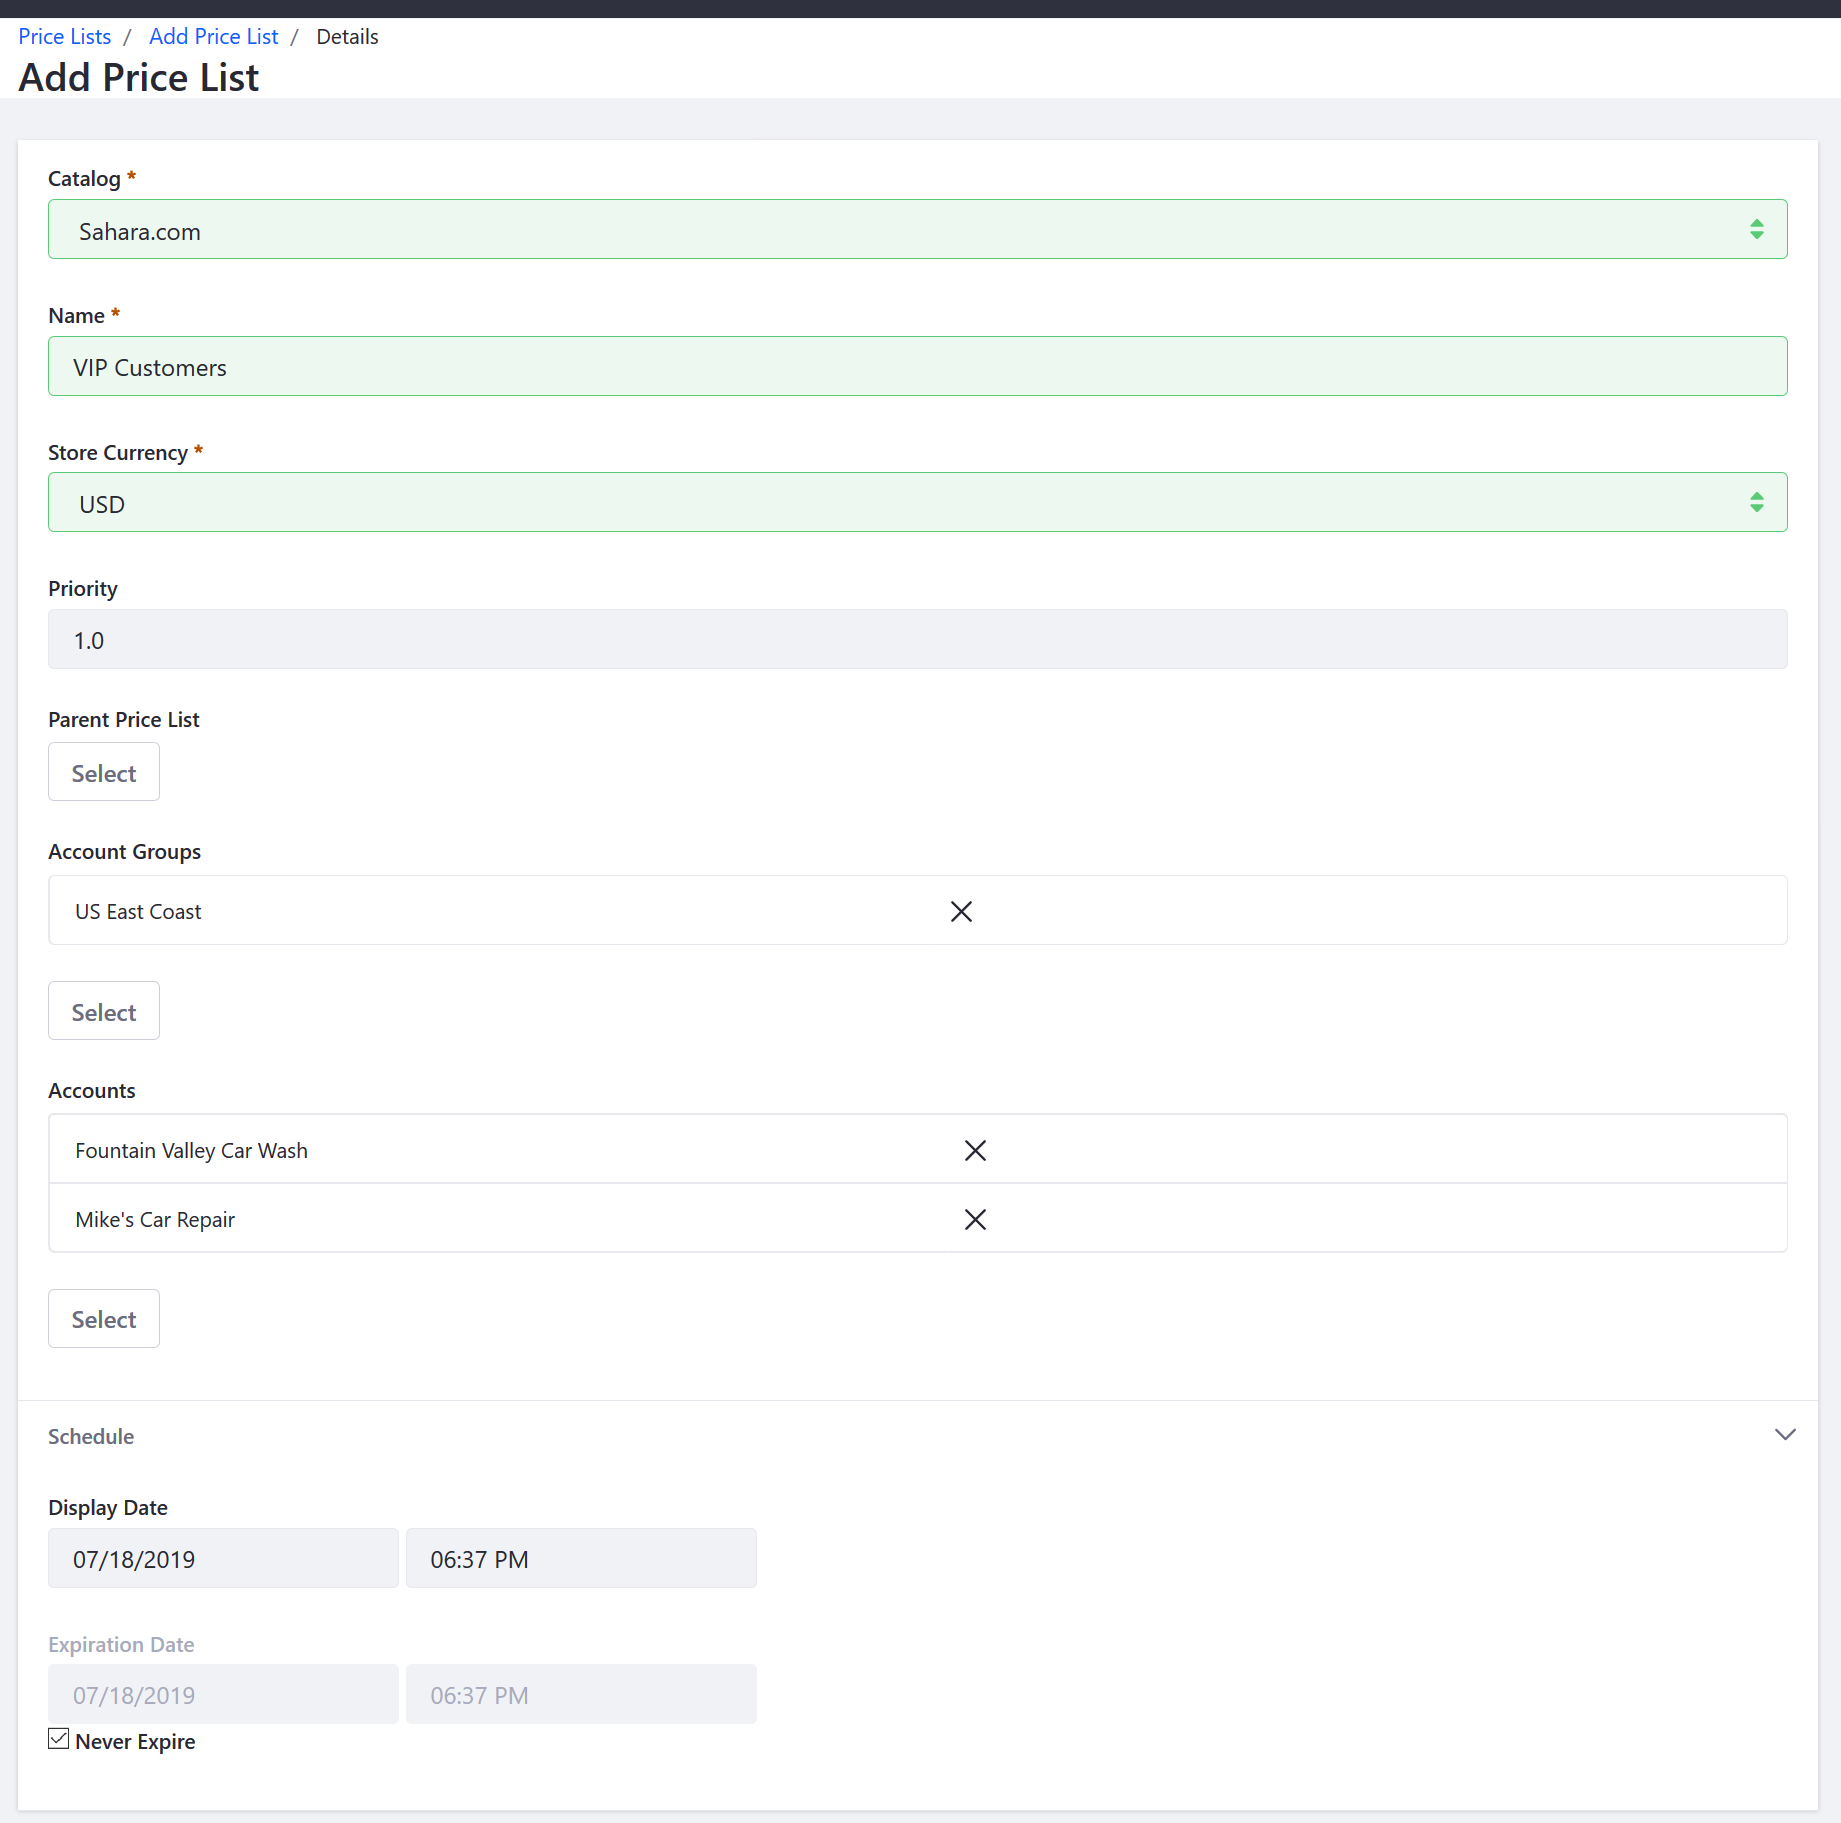
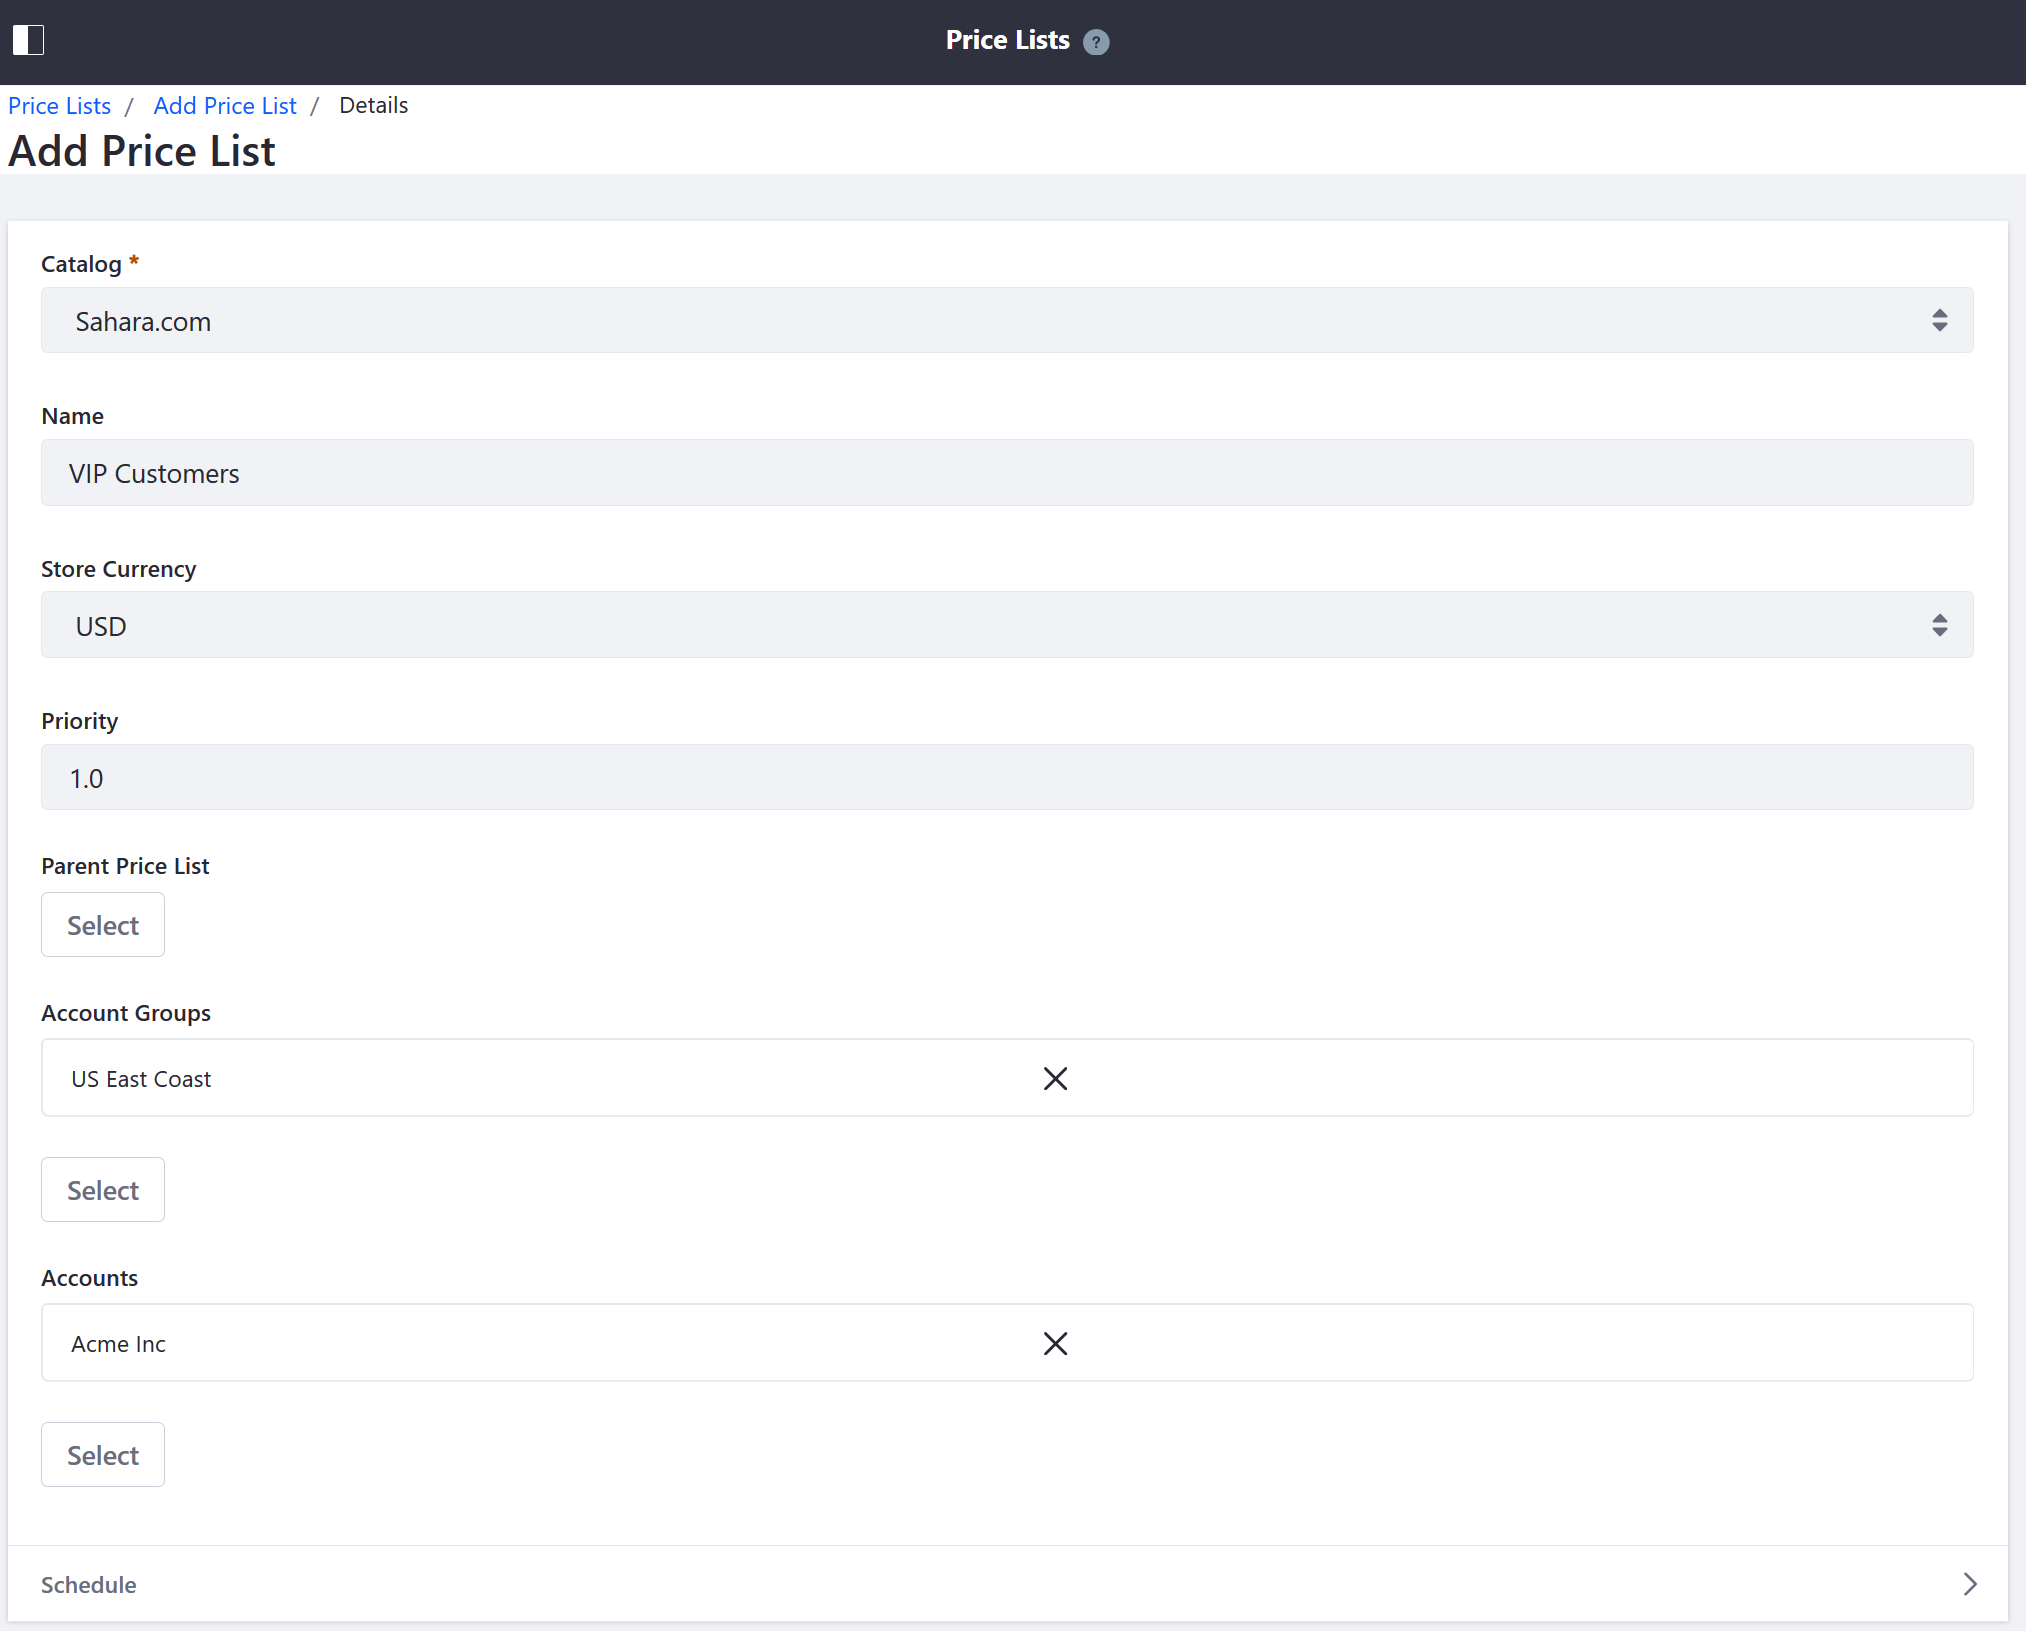
Updating images for Products and Promos

diff --git a/docs/commerce/2.x/en/promoting-products/automating-store-emails-by-using-notification-templates.md b/docs/commerce/2.x/en/promoting-products/automating-store-emails-by-using-notification-templates.md
@@ -6,11 +6,54 @@ Notifications are automated emails sent to users. To send email notifications, f
 
 Once the Mail settings have been configured, follow these steps to create a notification for a received order:
 
+1. Navigate to the _Control Panel_ &rarr; _Commerce_ &rarr; _Channels_.
+1. Click on the desired channel (for example, _Sahara.com_). (Note that if you had used an accelerator like Minium or Speedwell, the associated channel is created automatically.)
+1. Click the _Notifications_ tab.
+1. Click the _Notification Templates_ sub-tab.
+1. Click the Add (![Add icon](../images/icon-add.png)) button to create a new Notification Template.
+1. Enter the following:
+    * **Name**: New Orders
+    * **Description**: New orders template
+    * **Type**: Order Placed
+    * **Enabled**: Switch the Toggle to _YES_.
+    * **From Address**: Your store's email address (for example: _orders@yourstore.com_)
+    * **From Name**: Name of the store or a customer service representative
+    * **Subject**: Email subject (for example: _Your order has been received._)
+    * **Body**: Email body \*
+
+    ![Adding a Notification Template in 2.1](./automating-store-emails-by-using-notification-templates/images/03.png)
+
+1. Click _Save_.
+
+The new Notification Template has been saved and your store will send an automated email to buyers after the store has received their order. Once the template is created, a new notification is added to the notification queue whenever an order is placed.
+
+## Available Notification Templates
+
+There are several Notification Templates available out of the box.
+
+![Adding a Notification Template in 2.1](./automating-store-emails-by-using-notification-templates/images/04.png)
+
+| Template Type | Description |
+| --- | --- |
+| Order Placed | Customer is notified that the order has been placed. |
+| Order Processing | Customer is notified that the order is being processed. |
+| Order Partially Shipped | Customer is notified if an order has more than one item and the items are to be shipped separately. |
+| Order Shipped | Customer is notified that the order has been shipped. |
+| Order Completed | Customer is notified that the order is completed. |
+| Subscription Renewed | Customer is notified that his subscription is renewed. |
+| Subscription Activated | Customer is notified that a subscription has been activated. |
+| Subscription Suspended | Customer is notified that his subscription has been suspended. |
+| Subscription Cancelled| Customer is notified that his subscription is canceled. |  
+
+## Commerce 2.0 and Below
+
+To create email notifications in Commerce 2.0 and below:
+
 1. Navigate to _Site Administration_ → _Commerce_ → _Settings_.
-2. Click the _Notifications_ tab.
-3. Click the _Notification Templates_ sub-tab.
-4. Click the (+) button to create a new Notification Template.
-5. Enter the following:
+1. Click the _Notifications_ tab.
+1. Click the _Notification Templates_ sub-tab.
+1. Click the Add (![Add icon](../images/icon-add.png)) button to create a new Notification Template.
+1. Enter the following:
     * **Name**: New Orders
     * **Description**: New orders template
     * **Account Groups**: (leave blank or designate an **optional** account group)
@@ -21,11 +64,22 @@ Once the Mail settings have been configured, follow these steps to create a noti
     * **Subject**: Email subject (for example: _Your order has been received._)
     * **Body**: Email body \*
 
-    ![Notification Template](./automating-store-emails-by-using-notification-templates/images/01.png)
+    ![Adding a Notification Template](./automating-store-emails-by-using-notification-templates/images/01.png)
 
-6. Click _Save_.
+1. Click _Save_.
 
 The new Notification Template has been saved and your store will send an automated email to buyers after the store has received their order. Once the template is created, a new notification is added to the notification queue whenever an order is placed. Check the _Notifications Queue_ sub-tab when an order has been placed. Liferay Commerce checks the queue at specified intervals to send any unsent notifications.
+
+## Configuring Templates Check Interval
+
+To change the interval for when Liferay Commerce checks for unsent notifications:
+
+1. Navigate to the _Control Panel_ → _Configuration_ → _System Settings_. 
+1. Click _Orders_ then the _Commerce Notification Queue_. The default values are listed in minutes. Change the values for the Check Interval and the Delete Interval if necessary.
+
+    ![Changing Intervals](./automating-store-emails-by-using-notification-templates/images/02.png)
+
+1. Click _Update_ when finished.
 
 ## Additional Notifications
 
@@ -35,7 +89,3 @@ The new Notification Template has been saved and your store will send an automat
 * \[%ORDER_ID%\] inserts the Order ID
 
 **Note 2**: An extension point lets you implement other notifications: for a shipped order, a restocked product, a carrier exception, or any other event.
-
-**Note 3**: To change the interval for when Liferay Commerce checks for unsent notifications, navigate to the _Control Panel_ → _Configuration_ → _System Settings_. Click _Orders_ then the _Commerce Notification Queue_. The default values are listed in minutes. Change the values for the Check Interval and the Delete Interval if necessary.
-
-![Changing Intervals](./automating-store-emails-by-using-notification-templates/images/02.png)

diff --git a/docs/commerce/2.x/en/managing-a-catalog/managing-price/adding-products-to-a-price-list.md b/docs/commerce/2.x/en/managing-a-catalog/managing-price/adding-products-to-a-price-list.md
@@ -29,10 +29,28 @@ When creating a new product, you can easily add it to an existing price list usi
 
 1. Navigate to the _Control Panel_ → _Commerce_ → _Products_.
 1. Click on a product (_Premium Brake Fluid_ in this example).
+1. Click the _SKUs_ tab.
+1. Click on a SKU (_MIN93017_)
+1. Click _Price Lists_.
+
+    ![Adding Products to a Price List in 2.1](./adding-products-to-a-price-list/images/02.png)
+
+1. Click the Add (![Add icon](../../images/icon-add.png)) button.
+1. Choose one or more price lists (_VIP Customers_ in this example) to which this SKU will be added.
+1. Click _Add_.
+
+The price list is now associated with the product.
+
+![Adding Products to a Price List in 2.1](./adding-products-to-a-price-list/images/03.png)
+
+### Commerce 2.0 and Below
+
+1. Navigate to the _Control Panel_ → _Commerce_ → _Products_.
+1. Click on a product (_Premium Brake Fluid_ in this example).
 1. Click the _SKUs_ sub-tab.
 1. Click on a SKU (_MIN93017_)
 1. Click _Price Lists_.
-1. Click the (+) button.
+1. Click the Add (![Add icon](../../images/icon-add.png)) button.
 1. Choose one or more price lists (_VIP Customers_ in this example) to which this SKU will be added.
 1. Click _Add_.
 1. Click on a price list (_VIP Customers_ in this example).

diff --git a/docs/commerce/2.x/en/managing-a-catalog/managing-price/setting-a-products-base-price.md b/docs/commerce/2.x/en/managing-a-catalog/managing-price/setting-a-products-base-price.md
@@ -4,6 +4,21 @@ Each product SKU must have at a set base price. To assign one price to one SKU:
 
 1. Navigate to the _Control Panel_ → _Commerce_ → _Products_.
 1. Click on a product (_Torque Converters_ in this example).
+1. Click the _SKUs_ tab.
+1. Click on a SKU (_MIN55859_ in this example).
+1. On the _Details_ tab, enter the following in the Pricing section:
+    * **Price**: 34
+    * **Promo Price**: (leave it blank) (If you enter this field, then both the price above and promo price will appear on the product page so that buyers can see the markdown.)
+    * **Cost**: 20
+
+    ![Setting a product's base price in 2.1](./setting-a-products-base-price/images/02.png)
+
+1. Click _Publish_.
+
+## Commerce 2.0 and Below
+
+1. Navigate to the _Control Panel_ → _Commerce_ → _Products_.
+1. Click on a product (_Torque Converters_ in this example).
 1. Click the _SKUs_ sub-tab.
 1. Click on a SKU (_MIN55859_ in this example).
 1. Click _Pricing_.

diff --git a/docs/commerce/2.x/en/managing-a-catalog/managing-price/creating-a-price-list.md b/docs/commerce/2.x/en/managing-a-catalog/managing-price/creating-a-price-list.md
@@ -21,7 +21,7 @@ This article describes how to create a price list.
     * Mike’s Car Repair
     * Fountain Valley Car Wash
 1. Click _Add_.
-1. Choose a Schedule for the price list. (Leave the _Never Expire_checkbox checked in this example. Alternatively, you can set a date range for when the price list is active.)
+1. Choose a Schedule for the price list. (Leave the _Never Expire_ checkbox checked in this example. Alternatively, you can set a date range for when the price list is active.)
 
     ![Adding a price list](./creating-a-price-list/images/01.png)
 
